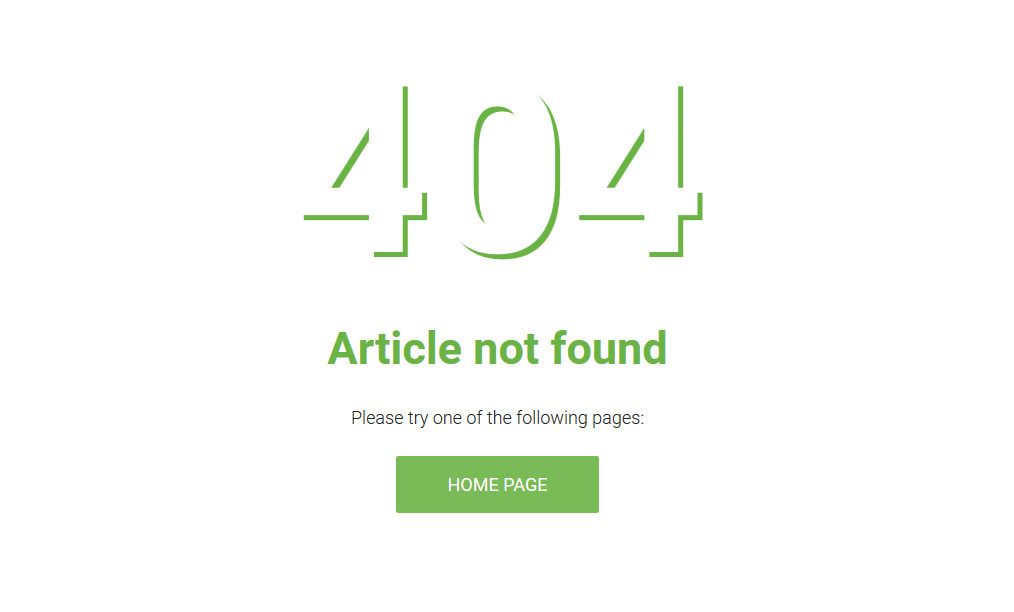
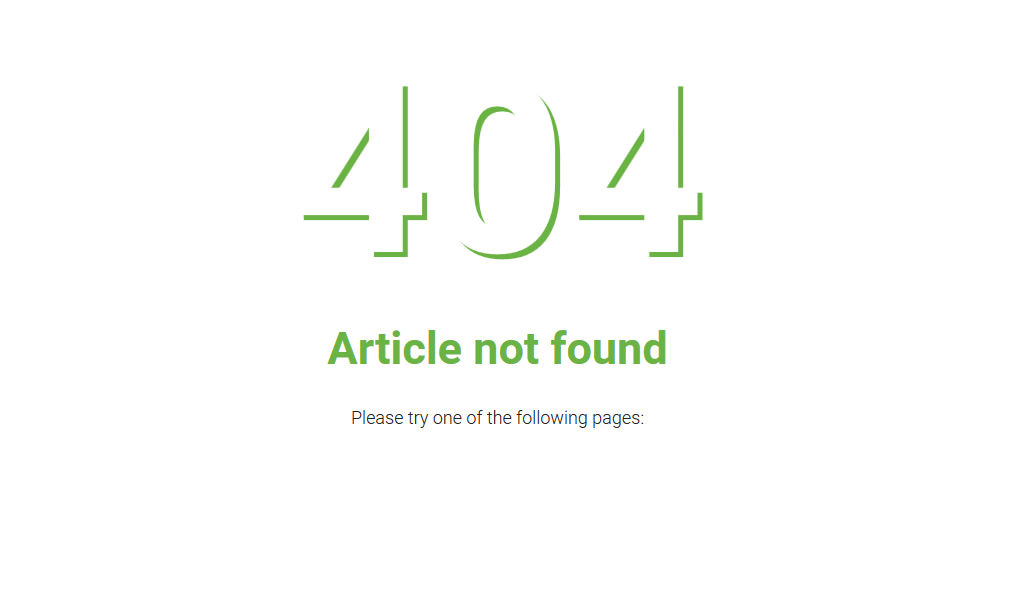
xong trang not found

Changed region(s): [[0.3669, 0.7451, 0.6114, 0.8382]]

diff --git a/css/style.css b/css/style.css
@@ -14,6 +14,7 @@
 @import 'my-account.css';
 @import 'giao-hang.css';
 @import 'thanh-toan.css';
+@import 'not-found.css';
 body{
     min-height: 100%;
     margin: 0;

diff --git a/notfound.php b/notfound.php
@@ -58,6 +58,7 @@
     <main class="main-content" >
        <section class="container">
            <img src="images/404.jpg" alt="not_found" style="width:100%">
+           <a href="trang-chu.php"><img src="images/404-back-ground-btn.png" alt="btn-go-home" class="btn-go-home-not-found"></a>
        </section>
     </main>
     <footer class="footer clear-fix">
